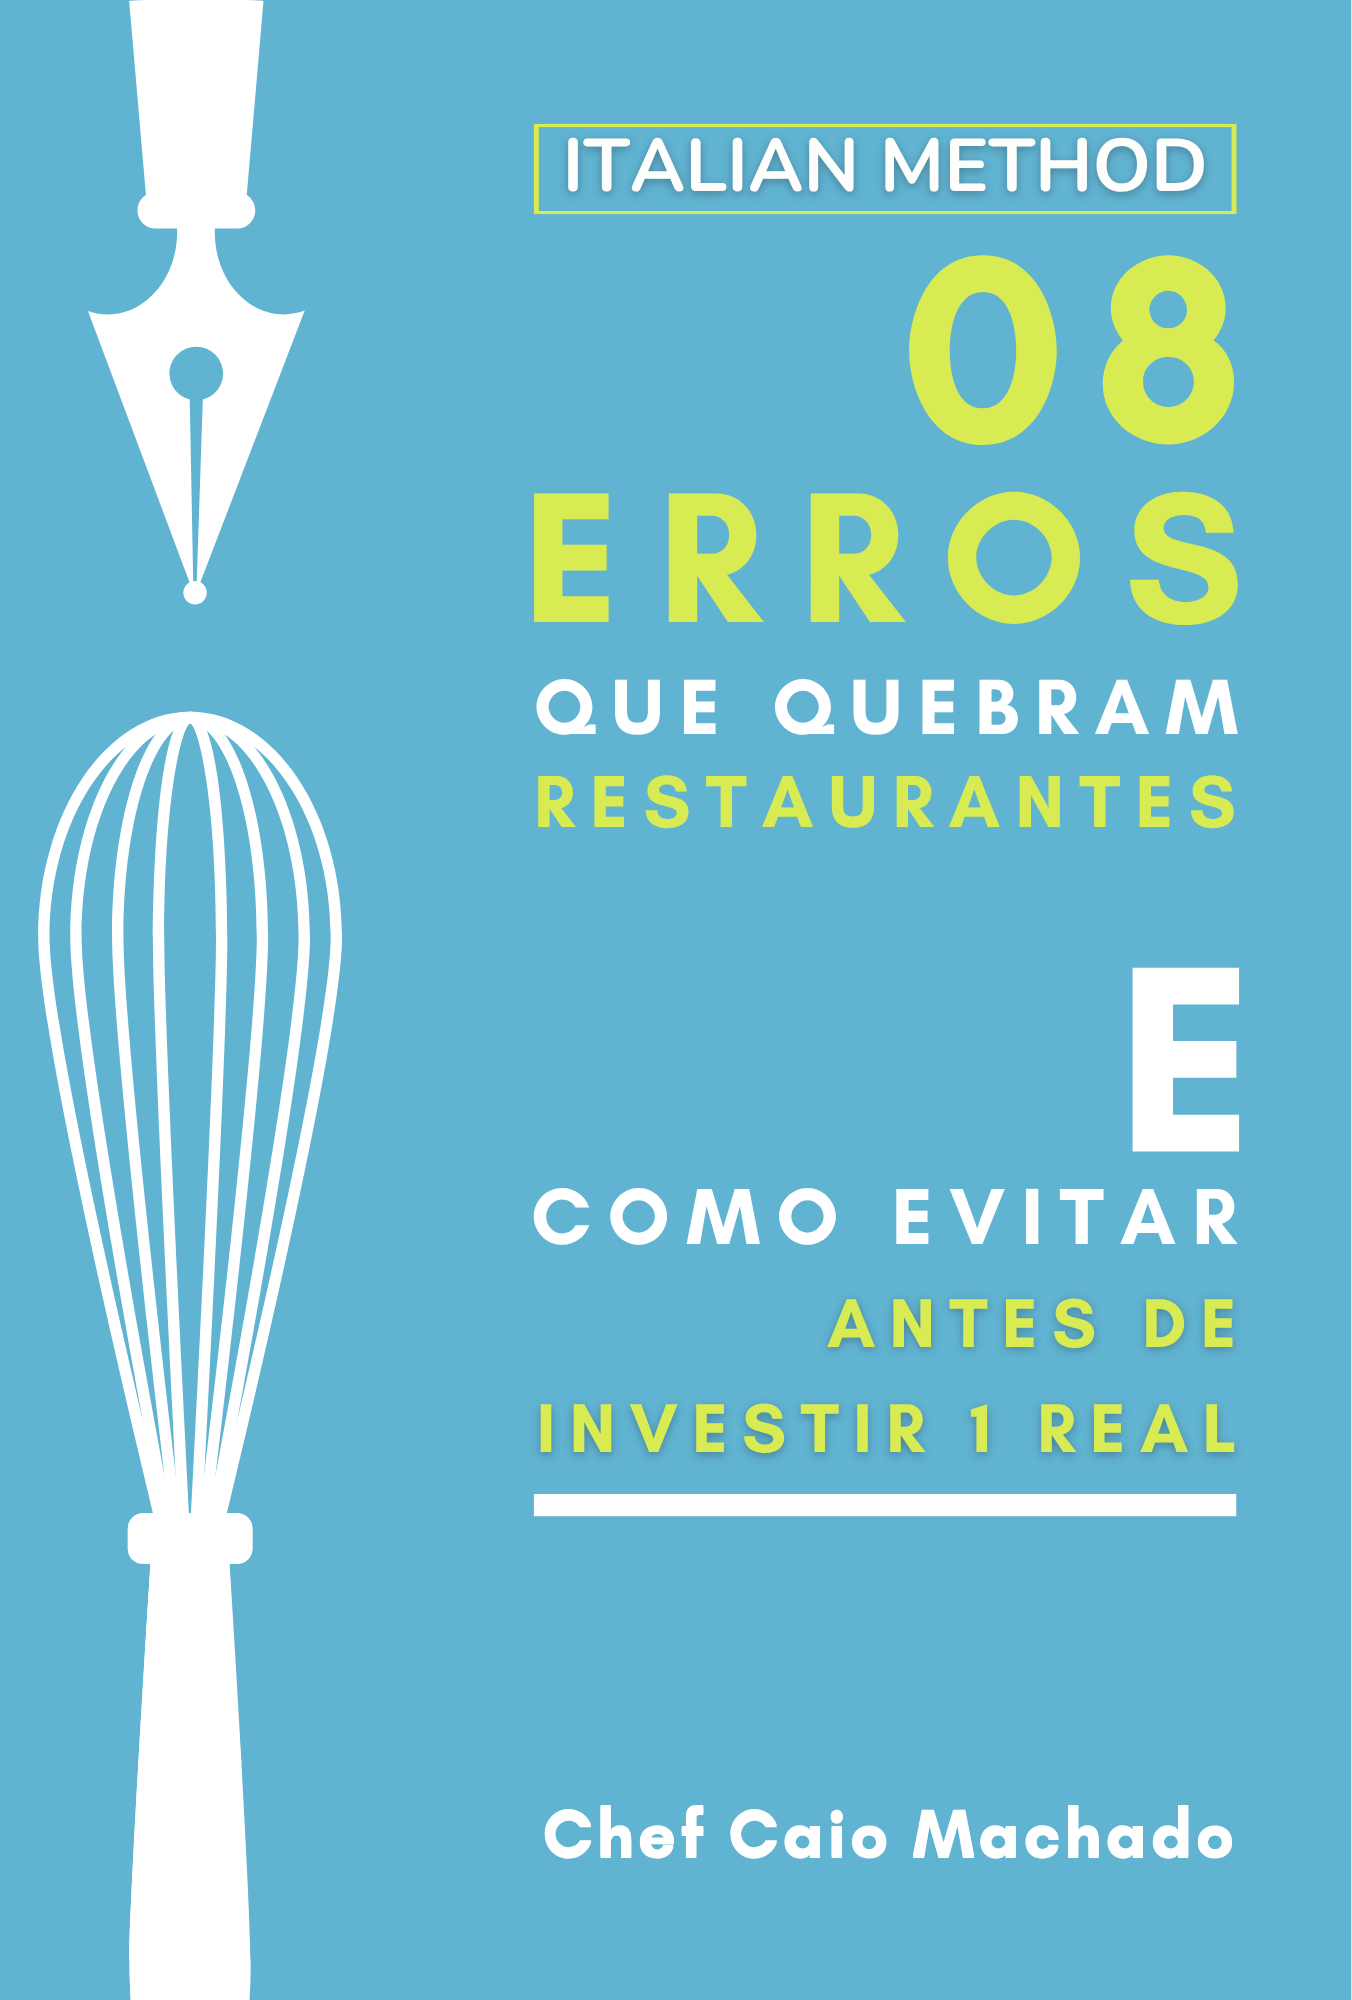
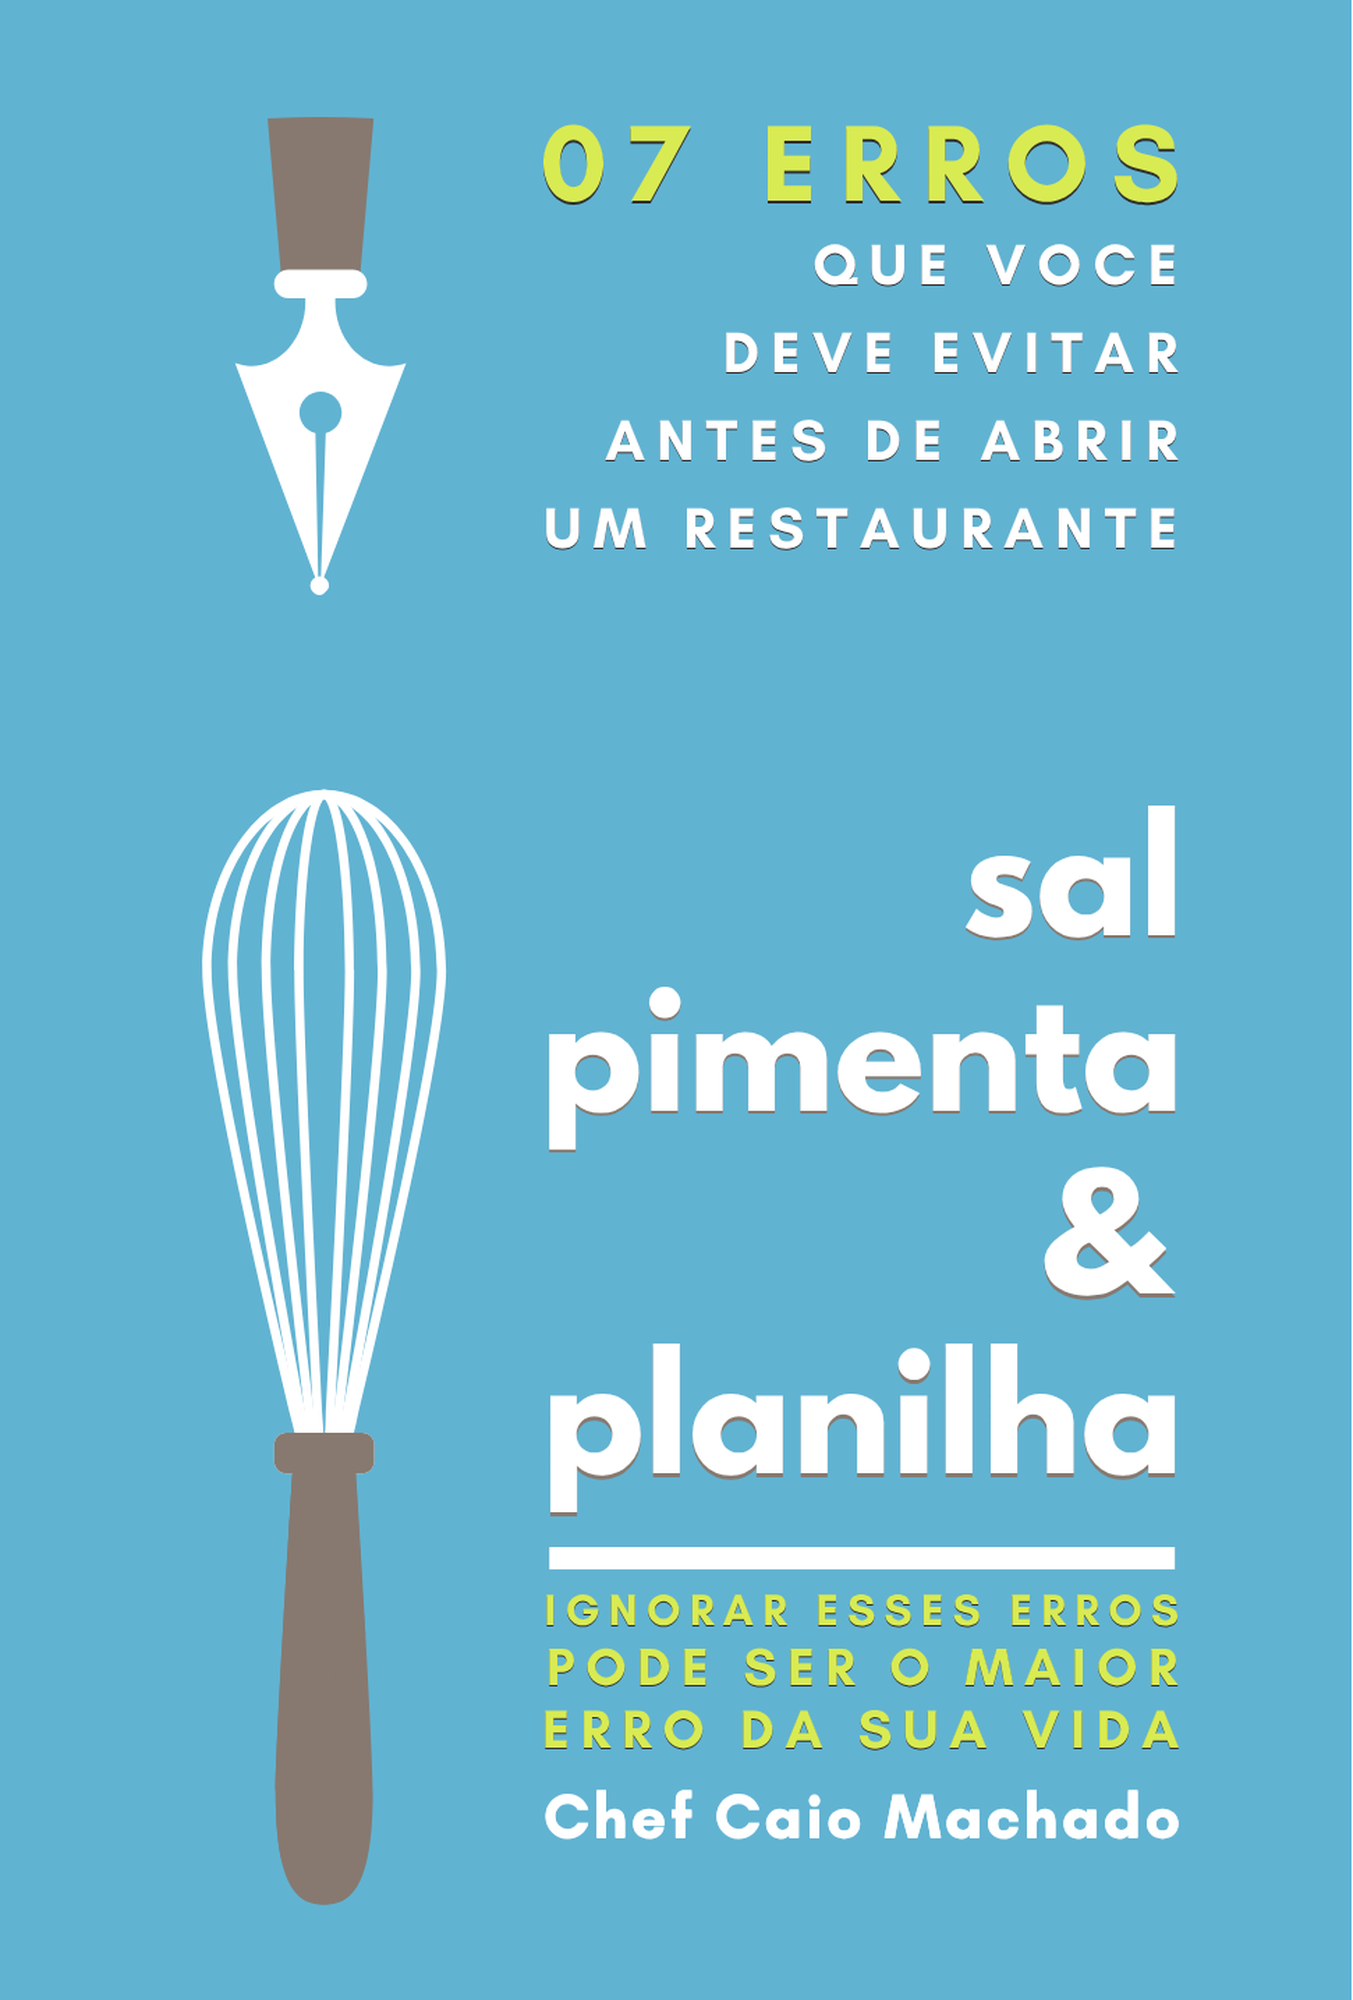
Libro: nuova copertina e titolo Sal, Pimenta & Planilha (07 erros); copertina nella bio; prevendita edizione italiana 45 €
Claude-Session: https://claude.ai/code/session_012xBTDUmM1B2AnMsQJrgiSn

diff --git a/src/data/forms.ts b/src/data/forms.ts
@@ -163,7 +163,7 @@ export const FORMS: Record<string, FormDef> = {
     steps: [{ title: 'Lista d’attesa', fields: [
       { name: 'nome', label: 'Nome', type: 'text', required: true, autocomplete: 'given-name' },
       { name: 'email', label: 'Email', type: 'email', required: true, autocomplete: 'email' },
-      { name: 'prodotto', label: 'Per quale edizione italiana?', type: 'radio', options: ['Il libro (08 Erros)', 'La guida Food Cost', 'Entrambi'], required: true },
+      { name: 'prodotto', label: 'Per quale edizione italiana?', type: 'radio', options: ['Il libro (Sal, Pimenta & Planilha)', 'La guida Food Cost', 'Entrambi'], required: true },
     ] }],
   },
   waitlistLibro: {

diff --git a/src/config.ts b/src/config.ts
@@ -46,6 +46,9 @@ export const LINKEDIN_URL = 'https://www.linkedin.com/in/caio-machado-275b82b3/'
 export const WHATSAPP_URL = '';
 /** Sito dello Studio Legale: vuoto finché non è pubblicato (niente link). */
 export const STUDIO_LEGALE_URL = '';
+/** Prevendita dell'edizione italiana in PDF (decisa da Caio l'8/11/2026). Link di pagamento: vuoto = il bottone porta alla lista d'attesa. */
+export const PREVENDITA_IT_URL = '';
+export const PREZZO_PREVENDITA_IT = '45 €';
 /** Guida Food Cost in portoghese (risorse). Vuoto = segnaposto. */
 export const GUIDA_FOODCOST_URL = '';
 
